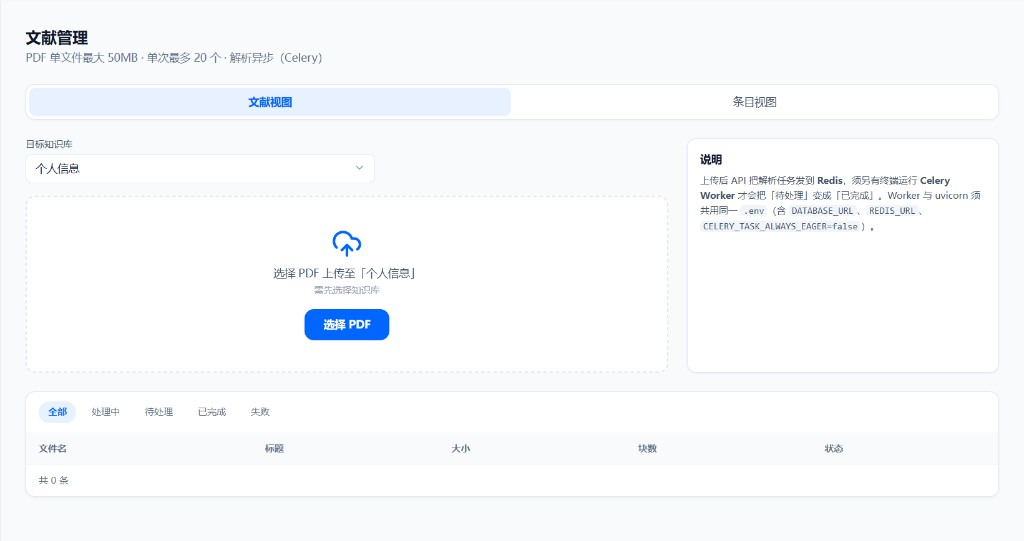
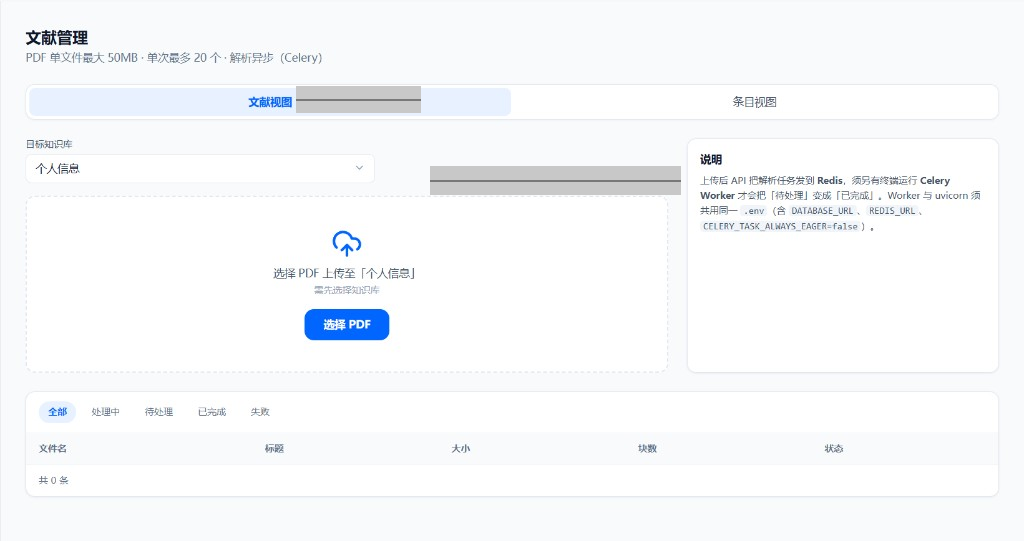
修改了readme

Changed region(s): [[0.4062, 0.2957, 0.6875, 0.3845], [0.2812, 0.1479, 0.4375, 0.207]]

diff --git a/scripts/redact_screenshot_names.py b/scripts/redact_screenshot_names.py
@@ -1,0 +1,72 @@
+"""为 README 截图打码：遮盖姓名与个人敏感信息。"""
+
+from __future__ import annotations
+
+from pathlib import Path
+
+from PIL import Image, ImageDraw
+
+ASSETS = Path(__file__).resolve().parents[1] / "assets"
+SHOTS = Path(__file__).resolve().parents[1] / "docs" / "screenshots"
+
+# (x1, y1, x2, y2) — 1024 宽 UI 截图
+REDACTIONS: dict[str, list[tuple[int, int, int, int]]] = {
+    "01-chat-research.png": [
+        (204, 176, 396, 212),   # 会话标题
+        (248, 452, 360, 476),   # 底部当前知识库名
+    ],
+    "02-knowledge-bases.png": [
+        (262, 88, 390, 112),    # 卡片标题行 1
+        (542, 88, 630, 112),
+        (822, 88, 880, 112),
+        (262, 238, 320, 262),   # 卡片标题行 2
+        (542, 238, 610, 262),
+    ],
+    "03-documents-pdf.png": [
+        (296, 88, 410, 112),    # 知识库下拉选中项
+        (430, 168, 660, 192),   # 上传区提示语中的库名
+    ],
+    "04-documents-entries.png": [
+        (34, 124, 440, 150),    # 条目 1 标题
+        (34, 152, 990, 248),    # 条目 1 正文（姓名/电话/邮箱）
+        (34, 252, 420, 278),    # 条目 2 标题
+        (34, 280, 990, 332),    # 条目 2 正文
+    ],
+    "05-reports.png": [
+        (34, 88, 300, 114),     # 报告标题
+        (34, 118, 990, 232),    # 摘要全文
+    ],
+}
+
+
+def redact_box(draw: ImageDraw.ImageDraw, box: tuple[int, int, int, int]) -> None:
+    x1, y1, x2, y2 = box
+    draw.rectangle(box, fill=(200, 200, 200))
+    mid_y = (y1 + y2) // 2
+    draw.line([(x1, mid_y), (x2, mid_y)], fill=(120, 120, 120), width=2)
+
+
+def process(path: Path) -> None:
+    regions = REDACTIONS.get(path.name)
+    if not regions:
+        return
+    img = Image.open(path).convert("RGB")
+    draw = ImageDraw.Draw(img)
+    for box in regions:
+        redact_box(draw, box)
+    img.save(path, format="PNG", optimize=True)
+    print(f"redacted: {path.name} ({len(regions)} regions)")
+
+
+def main() -> None:
+    for filename in REDACTIONS:
+        process(ASSETS / filename)
+    if SHOTS.is_dir():
+        for filename in REDACTIONS:
+            src = ASSETS / filename
+            if src.exists():
+                Image.open(src).save(SHOTS / filename, format="PNG")
+
+
+if __name__ == "__main__":
+    main()
